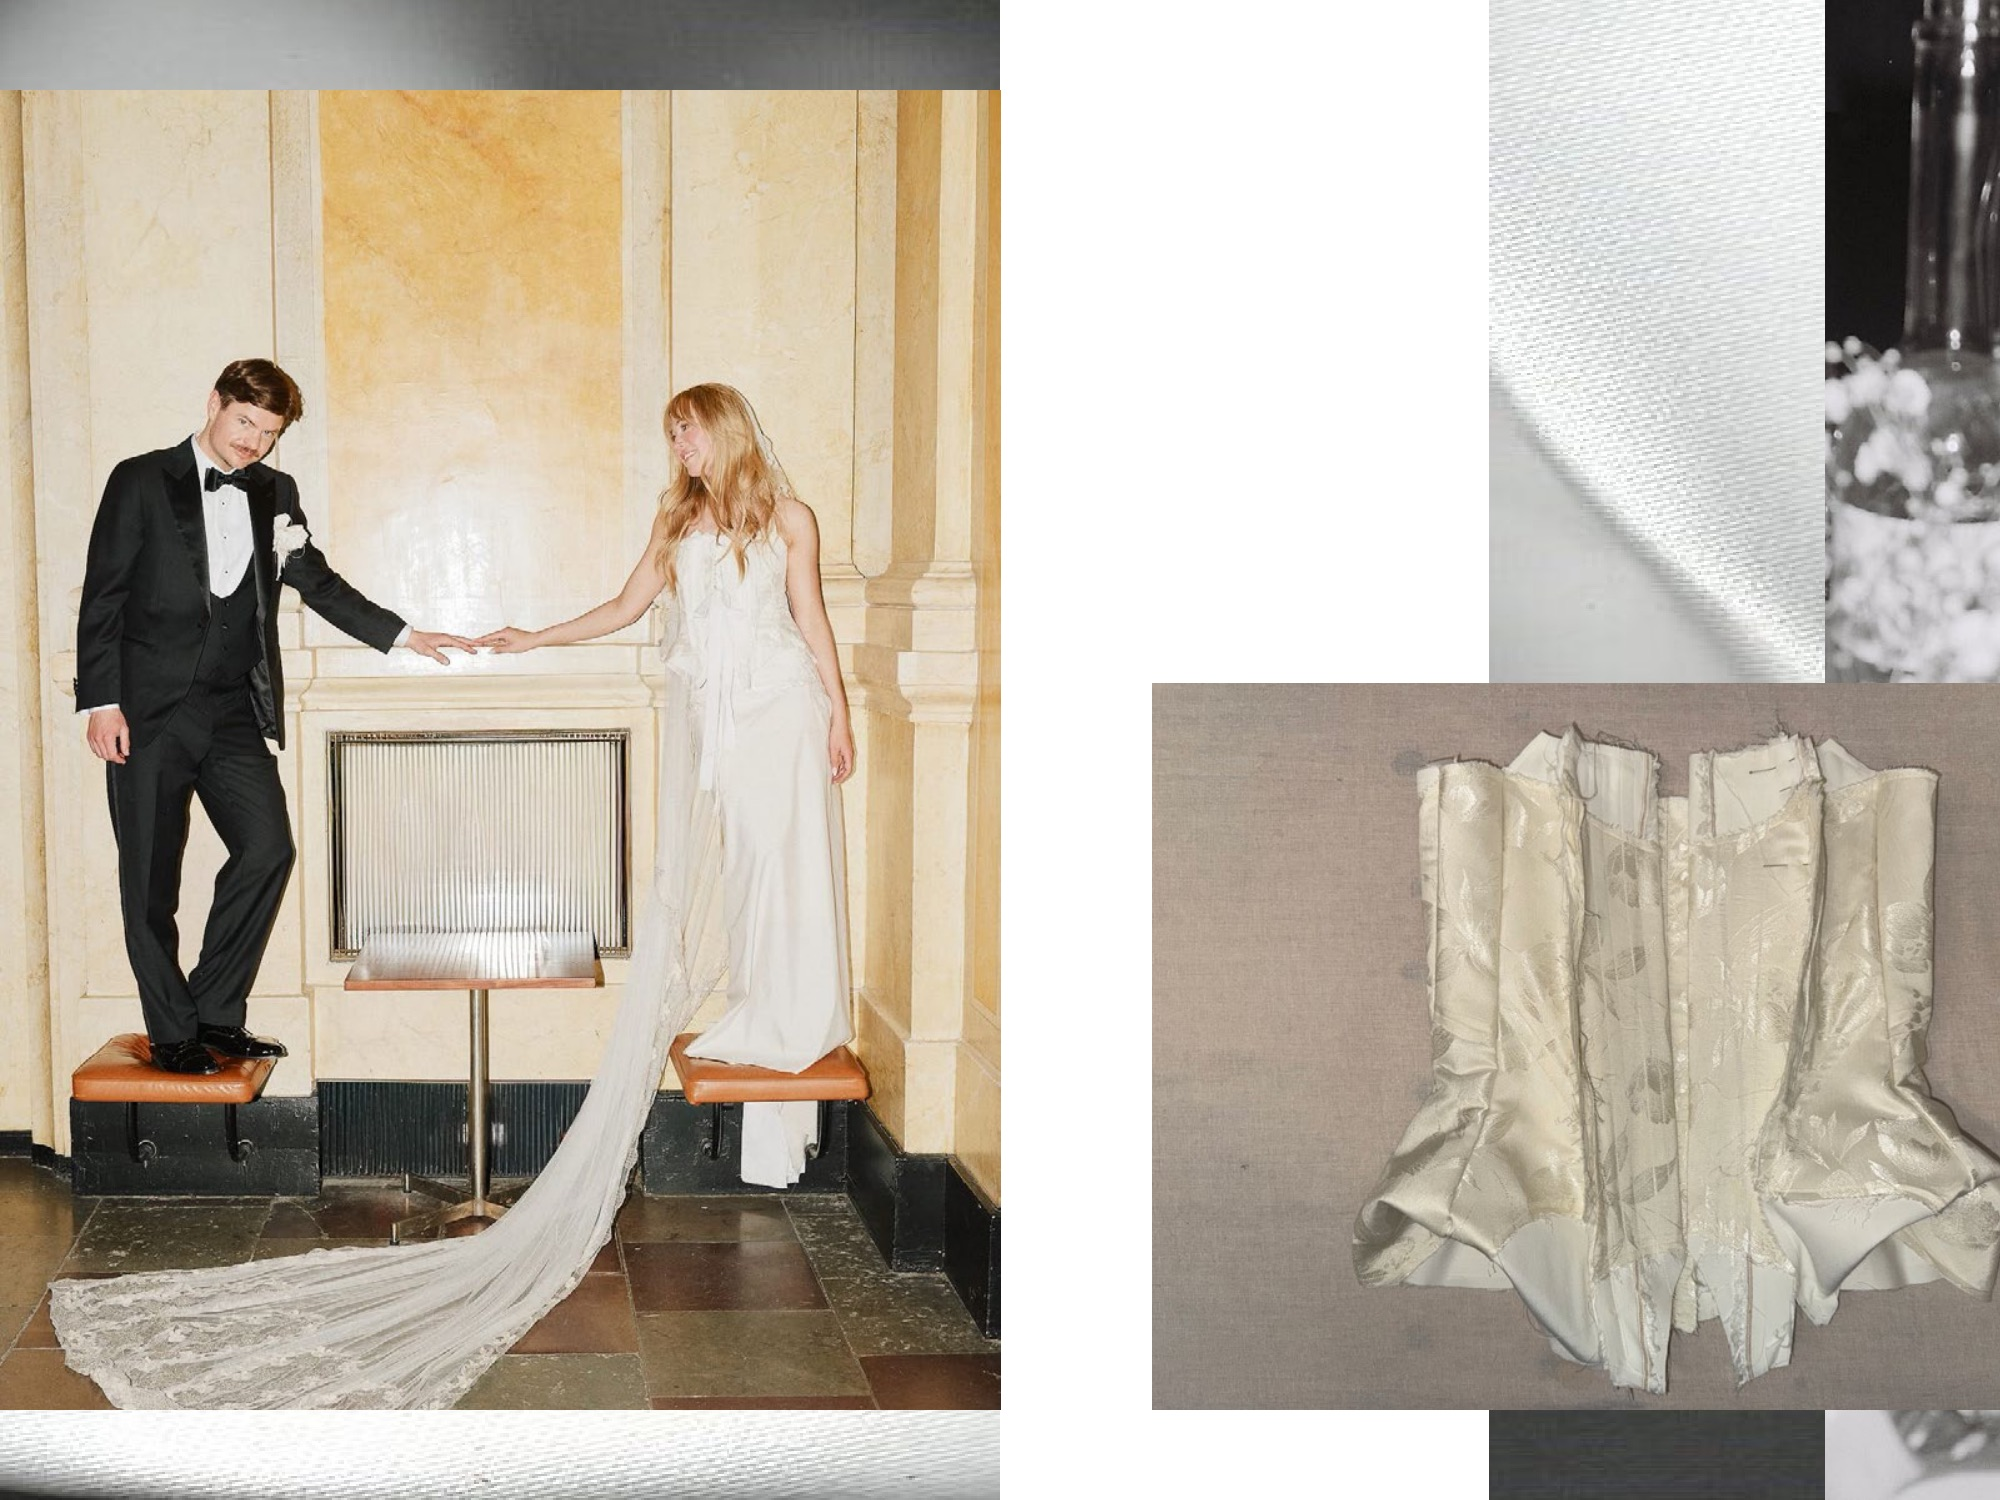
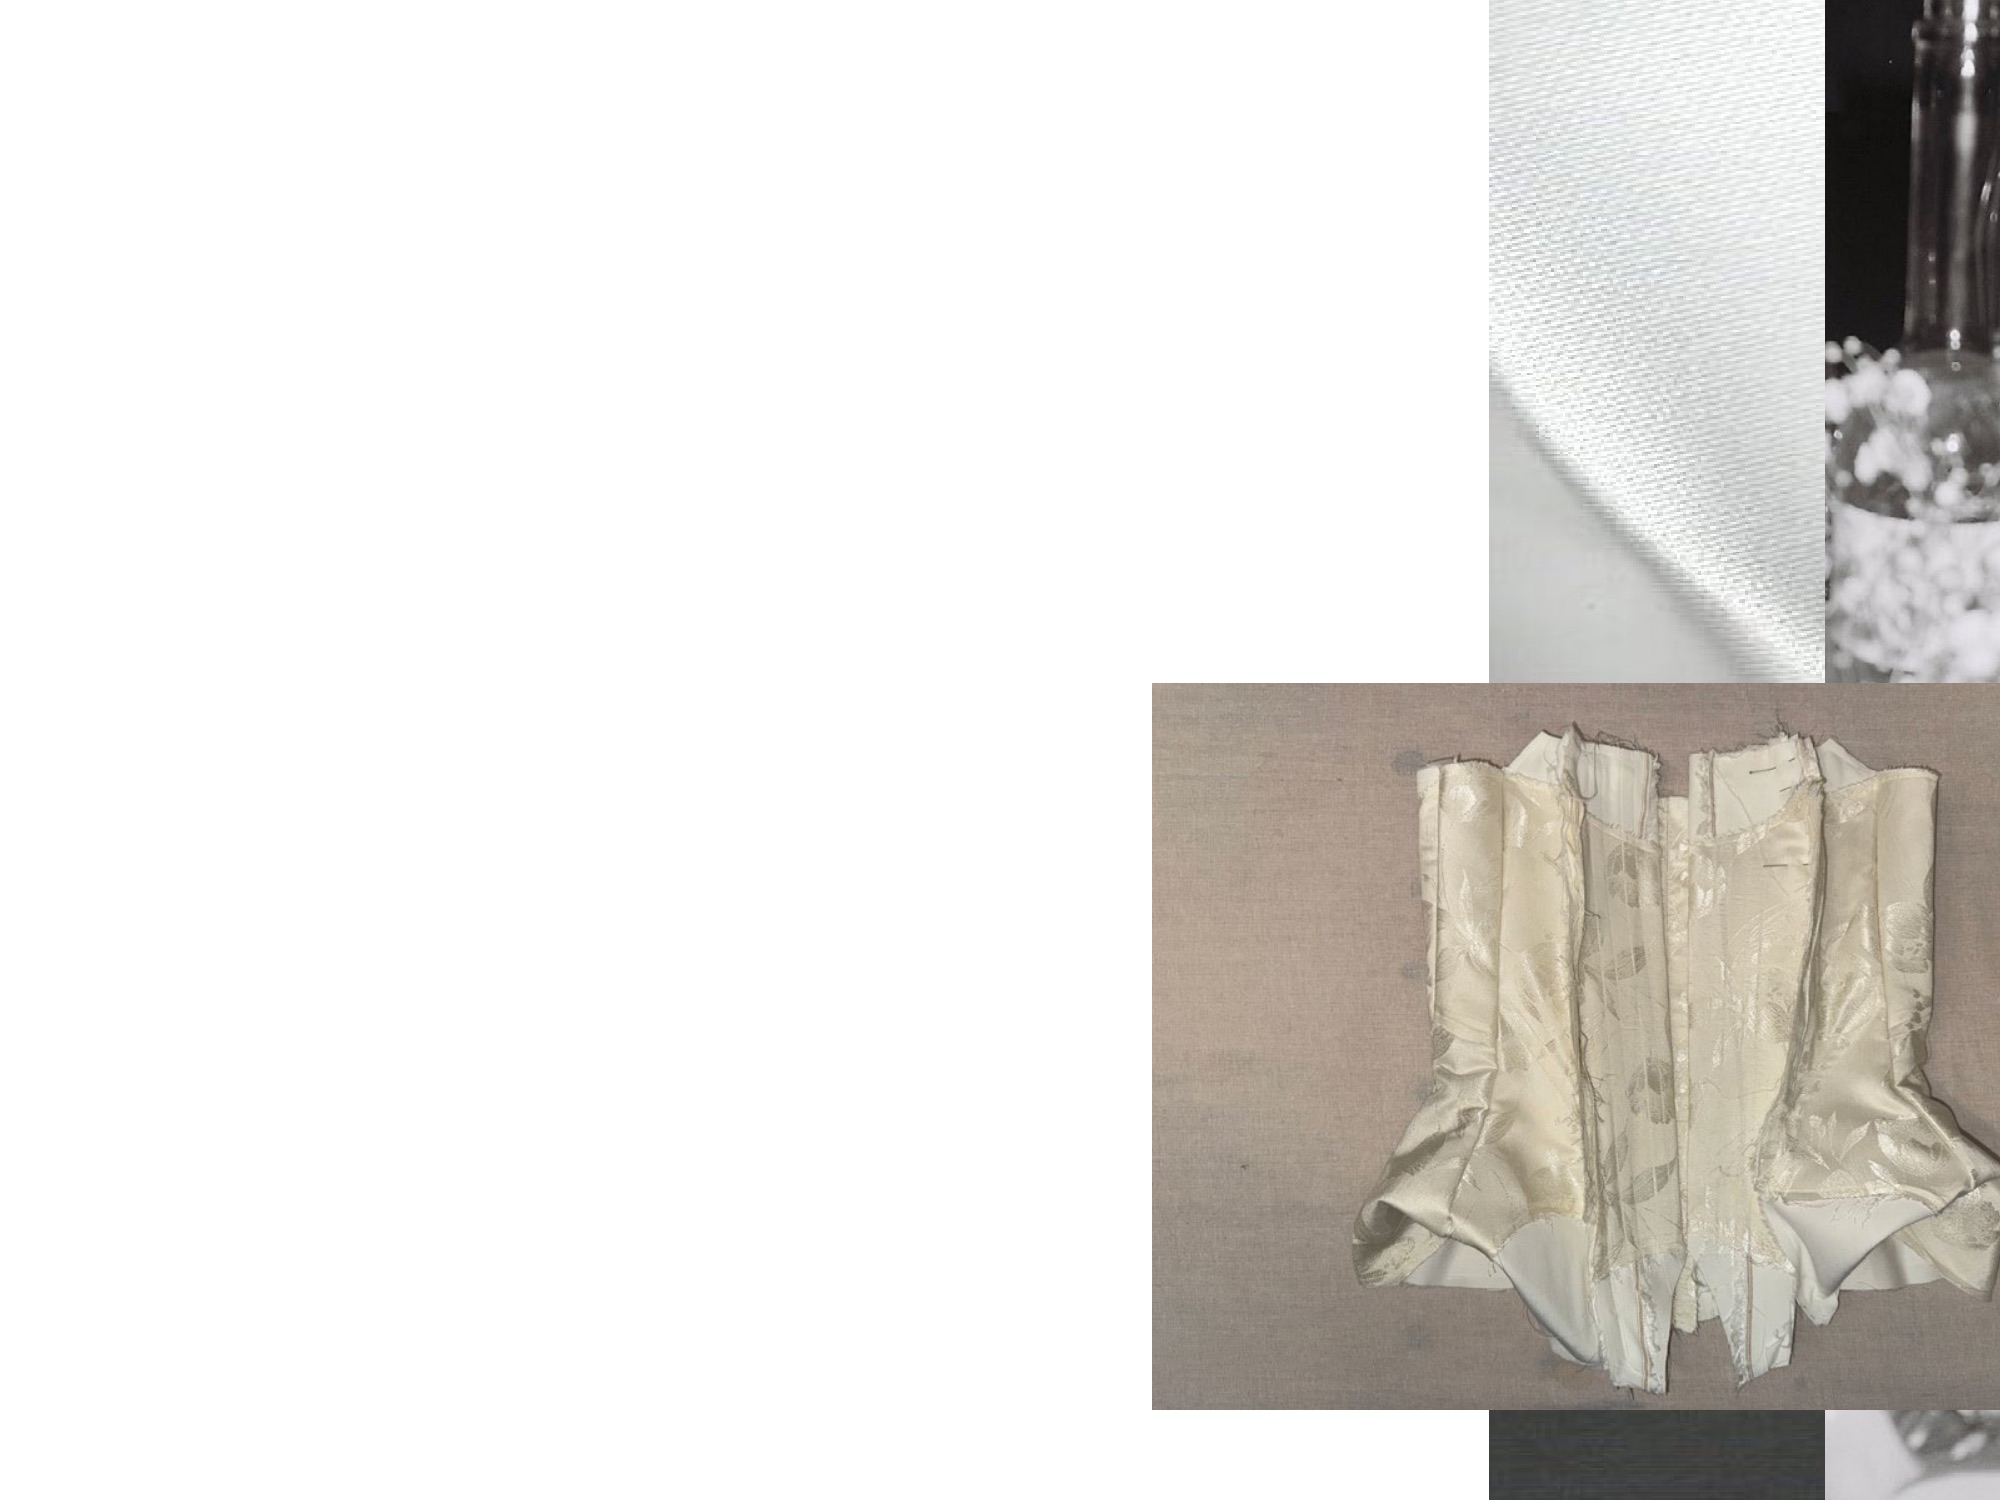
Collection: remove the bride and groom photo from picture 9

diff --git a/prototypes/v3/collection.html b/prototypes/v3/collection.html
@@ -104,7 +104,7 @@
         </div>
       </article>
 
-      <img class="look" style="--x: 58; --w: 42; --y: 12" src="../assets/lookbook/lookbook-09.jpg" width="2000" height="1500" alt="A bride and groom by a fireplace, her long train across the floor, beside a corset in ivory satin and a fold of grey silk." loading="lazy">
+      <img class="look" style="--x: 58; --w: 42; --y: 12" src="../assets/lookbook/lookbook-09.jpg" width="2000" height="1500" alt="A corset in ivory satin, a fold of white satin and a black and white photo of a bottle with flowers." loading="lazy">
 
       <img class="look" style="--x: 8; --w: 46; --y: 9" src="../assets/lookbook/lookbook-10.jpg" width="2000" height="1320" alt="A bride and groom by white doors, her veil flying, and a close-up of the dress with white tights and heels." loading="lazy">
 

diff --git a/docs/brand/taste-log.md b/docs/brand/taste-log.md
@@ -6,6 +6,7 @@ Format: `date · area · decision · why (if said)`
 
 ## 2026-10-04 · New About, Collection with photos
 
+- Collection · **Picture 9: the bride and groom photo removed**; "the remaining white space can stay" (the corset scan and the two strips on that lookbook page stay).
 - About · **New About page from their own mockup** (`docs/source-images/imagery/Screenshot 2026-10-02 at 11.37.21.png`): a big "About / US" in the right half, "ut" and "US" in thin Helvetica; the intro under it; the left half empty except for a few stray marks (`//`, `>>_` with the pink underscore, `/`). No lace at the top and no defect-lace picture. Everything from "The story of Shelly" down stays as it was.
 - About · **"Abo" in the same font as "Coll" on Collection** (the big Times they see as bold), same size, and **the same misprint effect on mouse hover**. "ut" and "US" match "ection". Titles on all pages should look and behave alike.
 - About · **The earlier About versions are disregarded**: "Two girls.", the lace photo collage and the typed lace (with RE(us)BLE) were deleted from the site. They stay in save point `4f9c976`, "if needed we can take them back". The lace pictures in `docs/explorations/lace/` stay.
